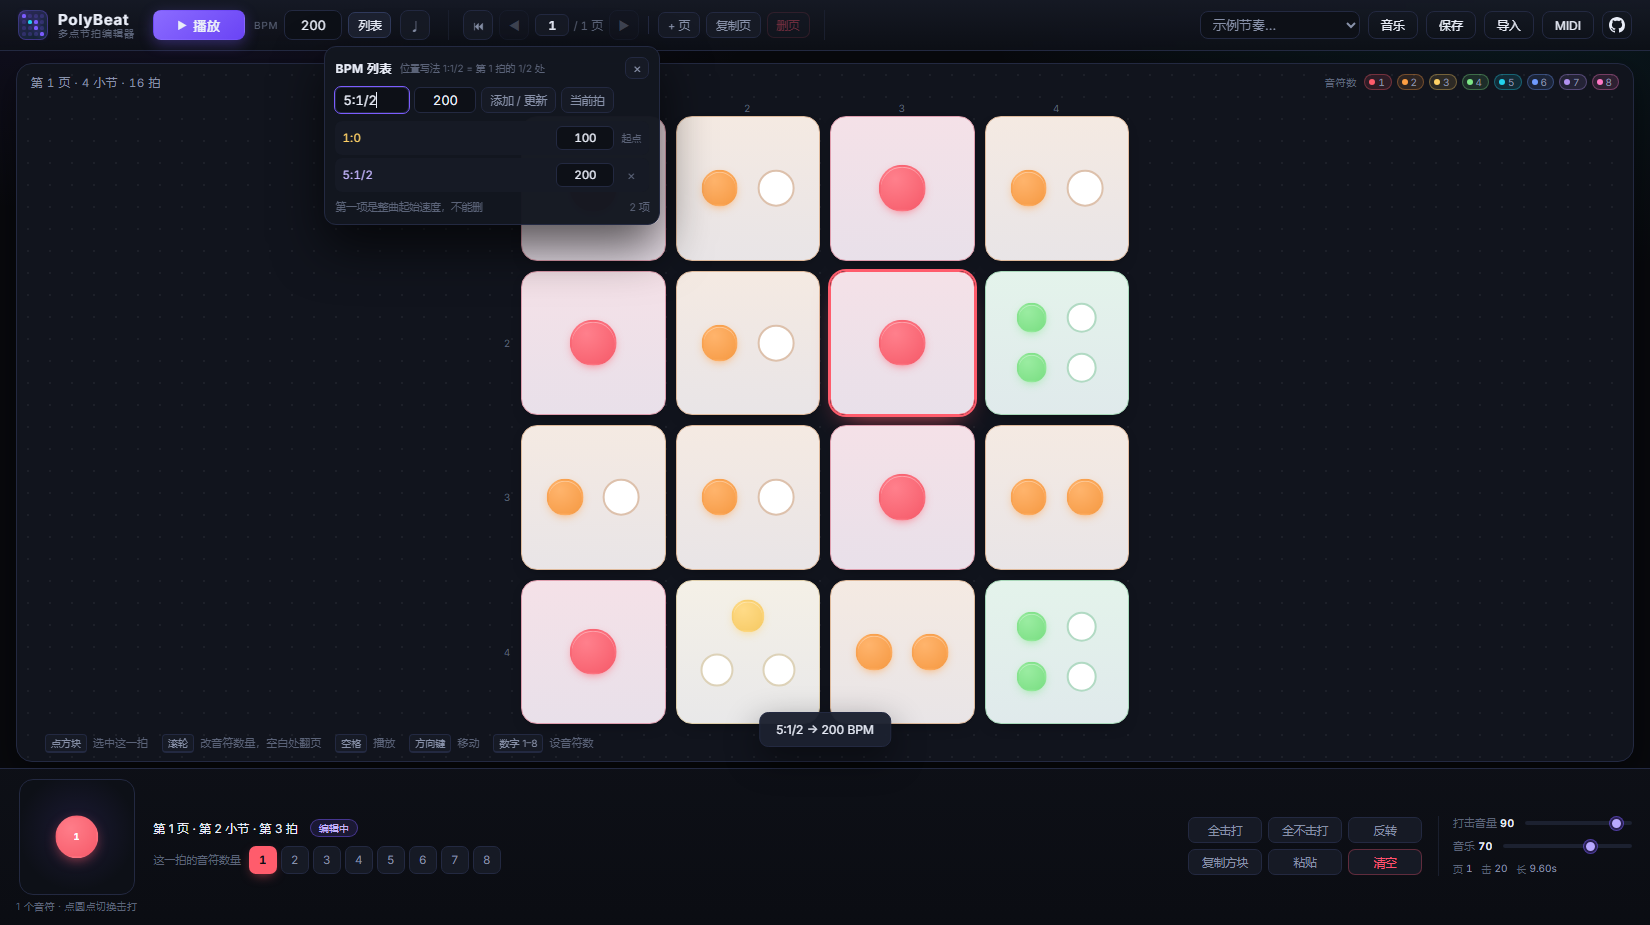
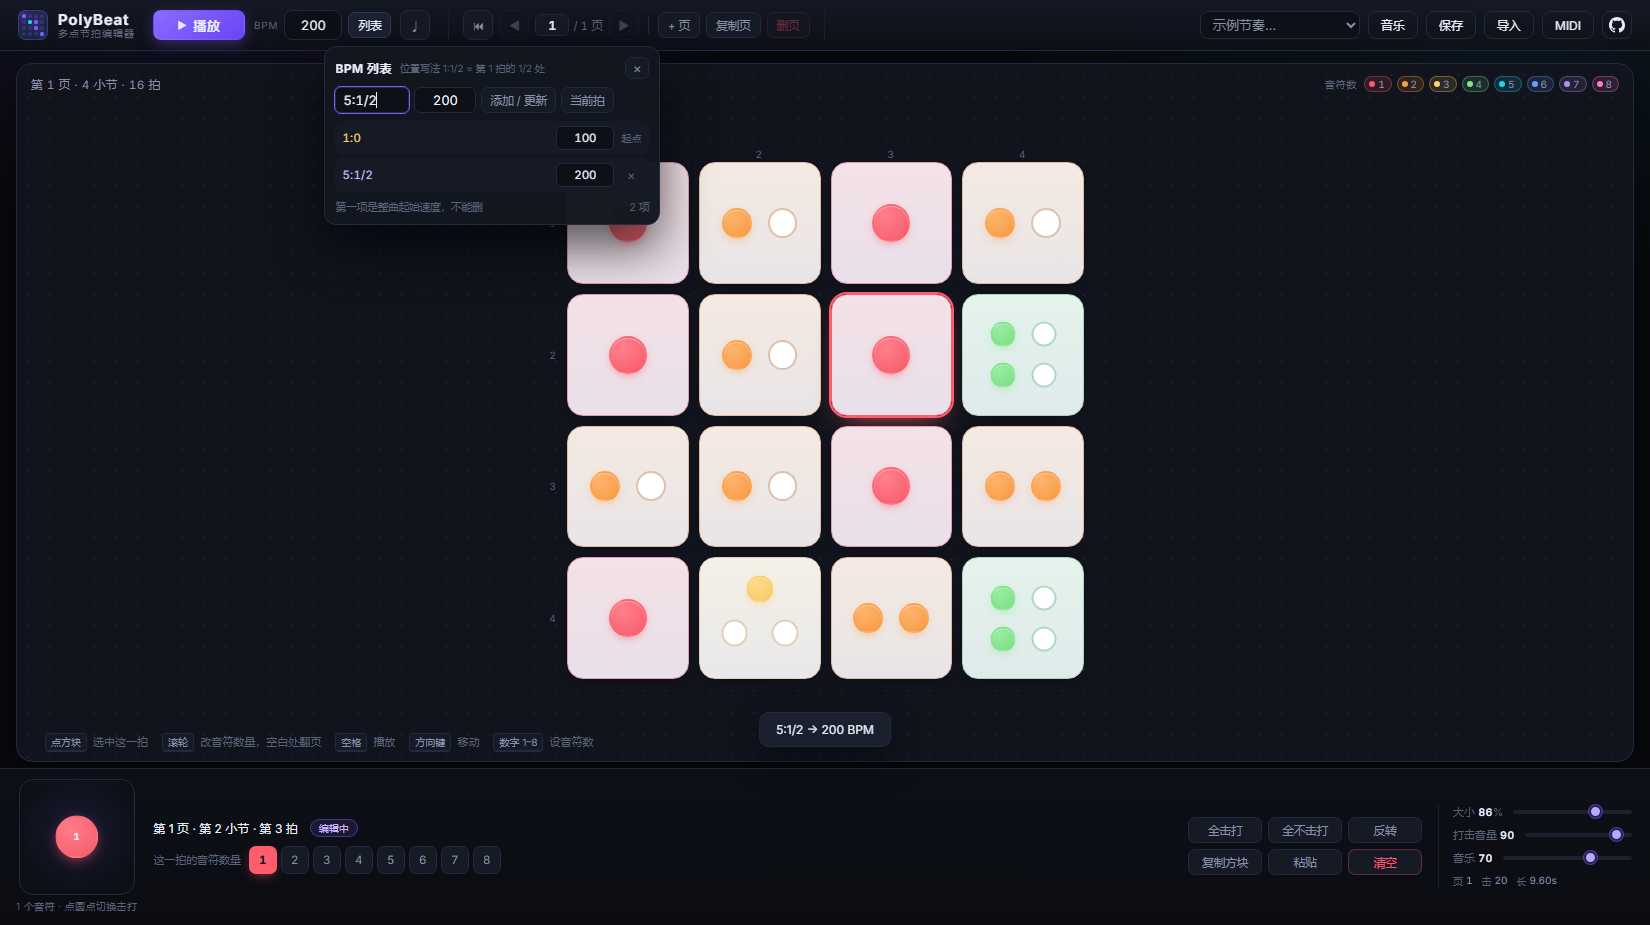
修改一些东西

diff --git a/js/state.js b/js/state.js
@@ -12,6 +12,7 @@ const Project = (function () {
     page: 0,
     sel: null,          // 当前页里的方块下标 0..15
     hitVol: 0.9,        // 打击音量（只影响打击音，不影响伴奏）
+    boardScale: 0.86,   // 棋盘占可用空间的比例
   };
 
   const listeners = [];
@@ -385,6 +386,13 @@ const Project = (function () {
     state.hitVol = Math.max(0, Math.min(1, v));
   }
 
+  /** 棋盘大小：可用空间的百分比（0.5–1） */
+  function setBoardScale(v) {
+    const n = Number(v);
+    if (!isFinite(n)) return;
+    state.boardScale = Math.max(0.5, Math.min(1, n));
+  }
+
   /* ------------------------------------------------------------ 序列化 */
 
   function toJSON() {
@@ -393,6 +401,7 @@ const Project = (function () {
       version: 4,
       tempos: state.tempos,
       hitVol: state.hitVol,
+      boardScale: state.boardScale,
       page: state.page,
       pages: state.pages,
     };
@@ -446,6 +455,7 @@ const Project = (function () {
     if (!pages.length) throw new Error('工程文件里没有页面');
 
     state.hitVol = Math.max(0, Math.min(1, raw.hitVol != null ? Number(raw.hitVol) : (Number(raw.master) || 0.9)));
+    if (raw.boardScale != null) setBoardScale(Number(raw.boardScale));
     state.pages = pages.map((page) => {
       const blocks = Array.isArray(page) ? page.slice(0, BLOCKS_PER_PAGE) : [];
       const out = blocks.map(sanitizeBlock);
@@ -537,7 +547,7 @@ const Project = (function () {
     select, toggleSlot, setCount, fillBlock,
     copyBlock, pasteBlock, hasClipboard,
     gotoPage, addPage, dupPage, delPage,
-    setBpm, setHitVolume,
+    setBpm, setHitVolume, setBoardScale,
     toJSON, fromJSON, loadPreset, newProject, loadChart, clearAll,
   };
 })();

diff --git a/js/app.js b/js/app.js
@@ -235,6 +235,8 @@
     const st = Project.state;
     refreshBpmInput();
     UI.renderTempoList();
+    $('boardScale').value = String(Math.round((st.boardScale || 0.86) * 100));
+    $('boardScaleVal').textContent = String(Math.round((st.boardScale || 0.86) * 100));
     $('hitVol').value = String(Math.round(st.hitVol * 100));
     $('hitVolVal').textContent = String(Math.round(st.hitVol * 100));
     UI.renderPageTitle();
@@ -319,6 +321,12 @@
       Project.pushUndo();
       Project.delPage();
       UI.toast('已删除该页');
+    });
+
+    $('boardScale').addEventListener('input', (e) => {
+      Project.setBoardScale(Number(e.target.value) / 100);
+      $('boardScaleVal').textContent = e.target.value;
+      UI.layout();
     });
 
     $('hitVol').addEventListener('input', (e) => {

diff --git a/css/style.css b/css/style.css
@@ -253,7 +253,7 @@ input[type="range"]::-moz-range-thumb{
   z-index: 1;
 }
 
-.stage-head{ display: flex; align-items: center; gap: 10px; }
+.stage-head{ display: flex; align-items: center; gap: 10px; height: 20px; flex: 0 0 auto; white-space: nowrap; overflow: hidden; }
 .page-title{ color: var(--dim); font-size: 11.5px; letter-spacing: .05em; font-variant-numeric: tabular-nums; }
 .store-badge{
   font-size: 10px; padding: 2px 8px; border-radius: 20px;
@@ -635,9 +635,11 @@ input[type="range"]::-moz-range-thumb{
   display: flex;
   align-items: center;
   gap: 14px;
+  height: 22px;
   color: var(--dim-2);
   font-size: 11px;
   overflow: hidden;
+  white-space: nowrap;
 }
 .kbd-hint{ white-space: nowrap; }
 kbd{

diff --git a/index.html b/index.html
@@ -129,6 +129,10 @@
 
   <div class="ed-vol">
     <div class="ed-field">
+      <label for="boardScale" title="棋盘大小（占可用空间的比例）">大小 <b id="boardScaleVal">86</b>%</label>
+      <input id="boardScale" type="range" min="50" max="100" step="1" value="86">
+    </div>
+    <div class="ed-field">
       <label for="hitVol" title="只影响打击音，不影响伴奏">打击音量 <b id="hitVolVal">90</b></label>
       <input id="hitVol" type="range" min="0" max="100" step="1" value="90">
     </div>

diff --git a/js/ui.js b/js/ui.js
@@ -446,7 +446,9 @@ const UI = (function () {
   function layout() {
     const wrapW = el.boardWrap.clientWidth;
     const wrapH = el.boardWrap.clientHeight;
-    const size = Math.max(220, Math.min(wrapW - 46, wrapH - 20));
+    // 先按可用空间算，再乘上“大小”滑杆的比例，四周留白
+    const fit = Math.min(wrapW - 46, wrapH - 20) * (Project.state.boardScale || 0.86);
+    const size = Math.max(200, Math.round(fit));
     el.boardCol.style.setProperty('--size', size + 'px');
   }
 

diff --git a/README.md b/README.md
@@ -209,6 +209,10 @@ node tools/embed-hit.js
 - 谱面自带的 offset 会自动用上（见上一节的表）。
 - 音乐只放在内存里，**不会写进工程 JSON**；刷新页面需要重新导入（工程本身可以保存/导入）。
 
+## 界面大小
+
+右下角第一条滑杆是 **大小**（50%–100%，默认 86%），用来缩放 4×4 棋盘：小屏或想看清整页时往左拉，投影/演示时拉到 100% 撑满。它会跟着工程一起保存，窗口大小变化时仍按这个比例重新适配。
+
 ## 翻页（胶片带）
 
 一页 4 小节。板子其实是一条横向的**胶片带**：中间是当前页，左右各放一页待命，再往外各藏一页（透明，作为滑入缓冲）。
